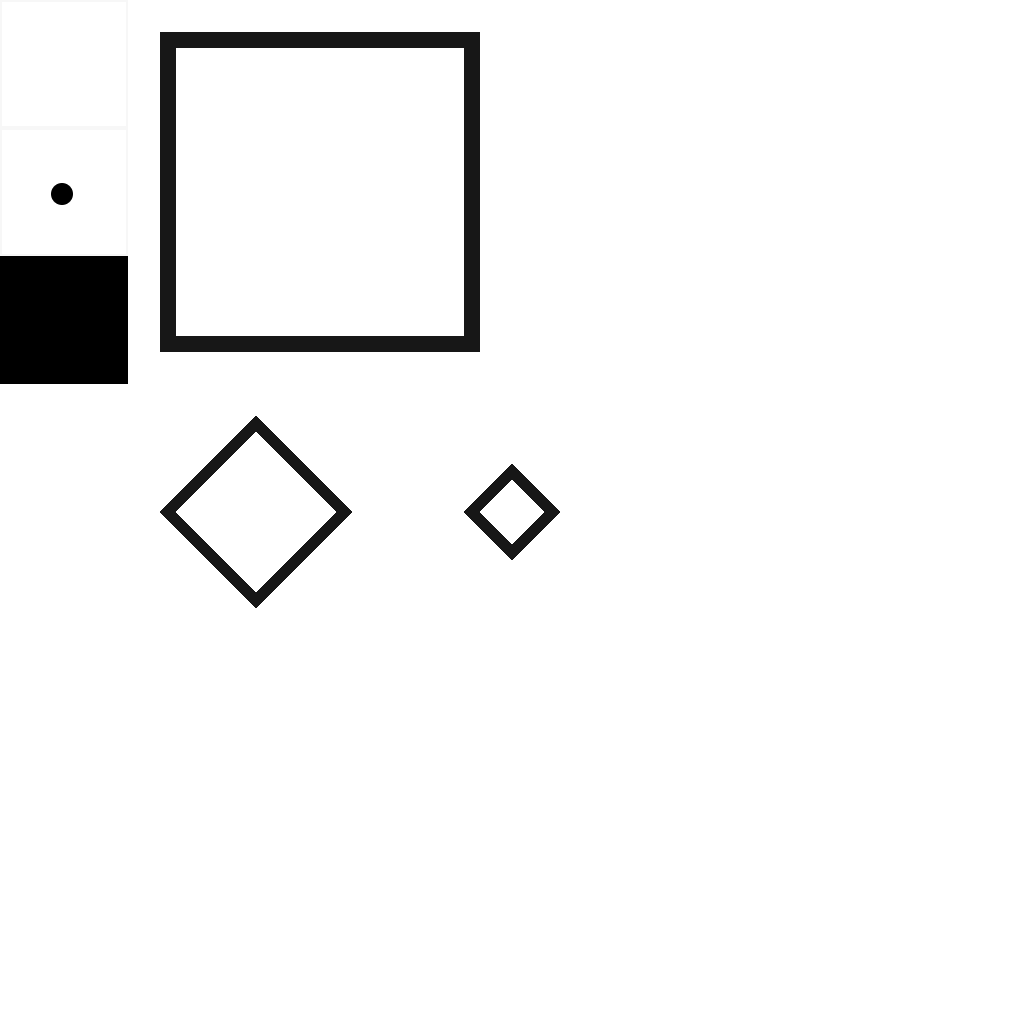
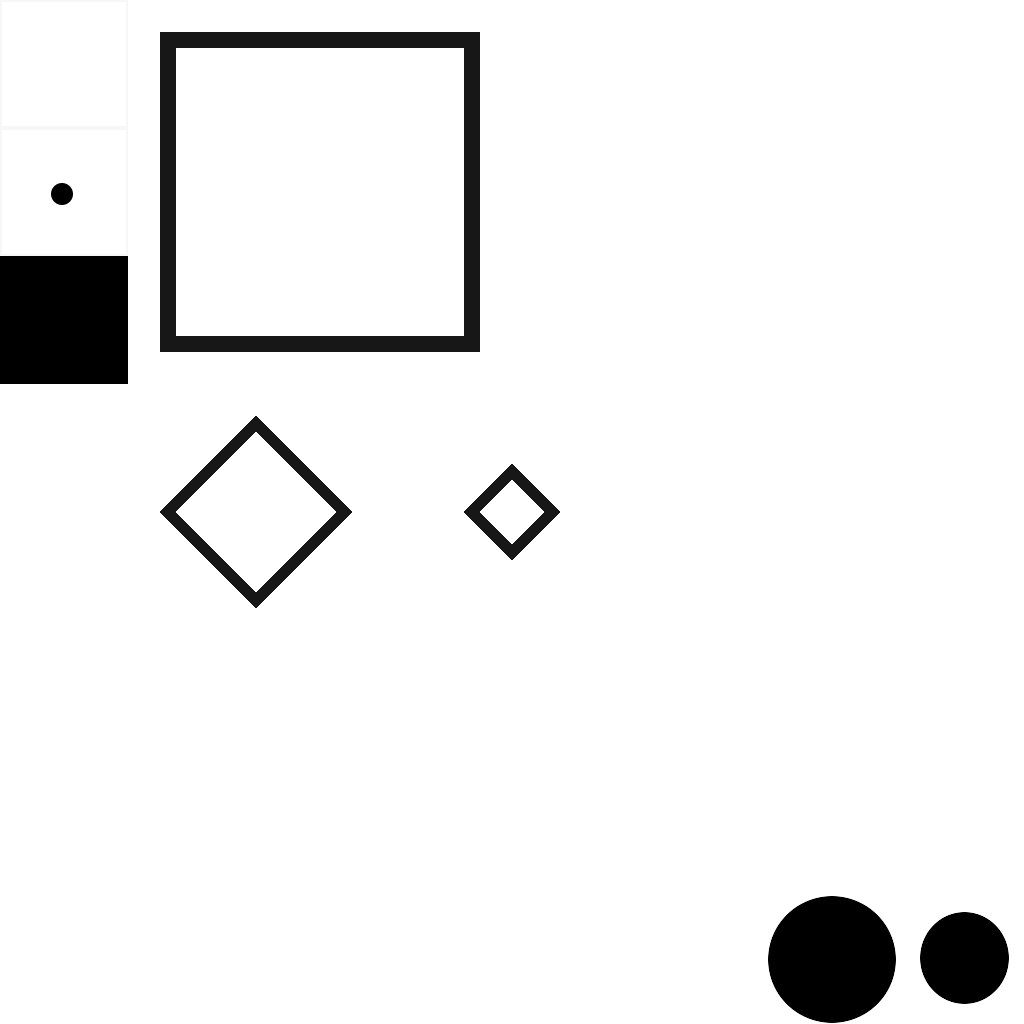
Started work on explody bits.

Changed region(s): [[0.75, 0.875, 1.0, 1.0]]

diff --git a/src/com/wuballiance/ld33/Game.java b/src/com/wuballiance/ld33/Game.java
@@ -21,7 +21,7 @@ public class Game {
 		MOVING, WINDUP
 	}
 	
-	public static final int offTile = 8, onTile = 16;
+	public static final int offTile = 8, onTile = 16, largeExplosionTile = 62, smallExplosionTile = 63;
 	
 	private static int currentTurn;
 	private static int par;
@@ -143,20 +143,39 @@ public class Game {
 		activateSingleTile(map.toTileX(x - (float) Math.sqrt(2) * radius), map.toTileY(y - (float) Math.sqrt(2) * radius));
 	}
 	
-	private static void activateSingleTile(int x, int y)
+	public static void activateSingleTile(int x, int y)
 	{
 		if (x < 0 || x >= map.getLayer(0).getMapWidth() || y < 0 || y >= map.getLayer(0).getMapHeight()) return;
 		
-		HvlTile tile = map.getLayer(0).getTile(x, y);
+		HvlSimpleTile st0 = (HvlSimpleTile) map.getLayer(0).getTile(x, y);
+		HvlSimpleTile st2 = (HvlSimpleTile) map.getLayer(2).getTile(x, y);
 		
-		HvlSimpleTile st = (HvlSimpleTile) tile;
-		
-		if (st.getTile() == offTile)
+		if (st0 != null && st0.getTile() == offTile)
 		{
 			map.getLayer(0).setTile(x, y, new HvlSimpleTile(onTile));
 		}
+		if (st2 != null && st2.getTile() == smallExplosionTile)
+		{
+			map.getLayer(2).setTile(x, y, null);
+			for (int xI = -2; xI < 3; xI++)
+			{
+				for (int yI = -2; yI < 3; yI++)
+				{
+					activateSingleTile(x + xI, y + yI);
+				}
+			}
+		}
+		if (st2 != null && st2.getTile() == largeExplosionTile)
+		{
+			
+		}
 	}
 
+	public static void activateSmallExplosion(int x, int y)
+	{
+		
+	}
+	
 	public static int getCurrentTurn() {
 		return currentTurn;
 	}

diff --git a/src/com/wuballiance/ld33/Spreader.java b/src/com/wuballiance/ld33/Spreader.java
@@ -1,0 +1,25 @@
+package com.wuballiance.ld33;
+
+import com.osreboot.ridhvl.HvlCoord;
+
+public class Spreader {
+
+	private HvlCoord pos, vel;
+	
+	private float timeAlive;
+	
+	private boolean shouldDelete;
+	
+	public Spreader(HvlCoord pos, HvlCoord vel) {
+		this.pos = pos;
+		this.vel = vel;
+	}
+
+	public void update(float delta) {
+		timeAlive += delta;
+	}
+	
+	public void draw(float delta) {
+		
+	}
+}
